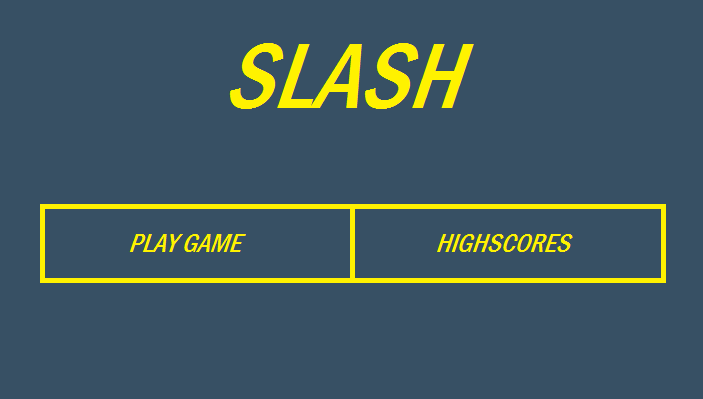
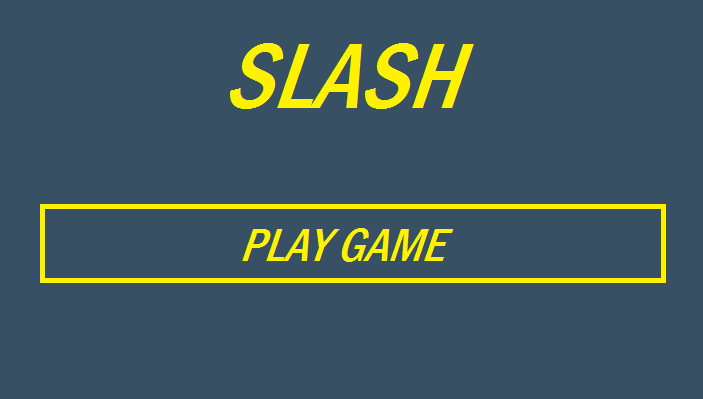
menu with highscores done
nao sei aumentar o tamanhao das letras se souberes aumenta um bocadinho

Changed region(s): [[0.1792, 0.5113, 0.8364, 0.6917]]

diff --git a/core/src/com/lpoo/gameworld/GameWorld.java b/core/src/com/lpoo/gameworld/GameWorld.java
@@ -26,7 +26,7 @@ public class GameWorld {
     private ArrayList<Ball> balls;
     private boolean slasherIsMoving=false;
 
-
+    public static int highscore = 0;
     public static int score;
 
 
@@ -118,6 +118,8 @@ public class GameWorld {
 
             } else if(message=="Game Over") {
                 slasherIsMoving=false;
+                if (score > highscore)
+                    highscore = score;
                 changeScreen(game, new GameOverScreen(game));
             }
         }
@@ -142,7 +144,13 @@ public class GameWorld {
         return score;
     }
 
+    public static int getHighscore() {
+        return highscore;
+    }
 
+    public static void setHighscore(int highscore) {
+        GameWorld.highscore = highscore;
+    }
 
     public void setScore(int score) {
         this.score = score;
@@ -165,7 +173,7 @@ public class GameWorld {
         Vector2 newPoint = new Vector2(slasher.getFinger());
         Vector2[] pointsTriangle = new Vector2[3];
         pointsTriangle[0] = slasher.getPosition();
-      //  pointsTriangle[1] = toDelete;
+        //  pointsTriangle[1] = toDelete;
 
         for( int j=0; j<4; j++)
         {
@@ -182,7 +190,7 @@ public class GameWorld {
 
         //new objects
         gameArea.dispose();
-       // checkBounds(points);
+        // checkBounds(points);
         slasher = new Slasher(newPoint, this);
 
         gameArea=new GameArea(points[0],points[1],points[2],points[3],world, this);
@@ -190,12 +198,12 @@ public class GameWorld {
         createBalls(counter+1);
         score += counter;
         //if(!resize())
-       // checkBounds(points);
-    //   if(pointsTriangle[0] == slasher.getPosition())
-      //  pointsTriangle[0] = slasher.getPosition();
+        // checkBounds(points);
+        //   if(pointsTriangle[0] == slasher.getPosition())
+        //  pointsTriangle[0] = slasher.getPosition();
         //pointsTriangle[1] = toDelete;
-       // pointsTriangle[2] = newPoint;
-       // System.out.println("GameWorld::PointsTriangle() = p1"+pointsTriangle[0]+"     p2 "+pointsTriangle[1]+" p3"+pointsTriangle[2]);
+        // pointsTriangle[2] = newPoint;
+        // System.out.println("GameWorld::PointsTriangle() = p1"+pointsTriangle[0]+"     p2 "+pointsTriangle[1]+" p3"+pointsTriangle[2]);
 
 
     }
@@ -207,14 +215,14 @@ public class GameWorld {
      * @return number of balls that are out of the gameArea.
      */
     public int checkBalls(Vector2[] pointsTriangle){
-       int counter=0;
+        int counter=0;
         for (int i = 0; i < balls.size();i++) {
             if (pointInPolygon( pointsTriangle, balls.get(i))){
                 Gdx.app.log("bola esta fora", "bola esta fora");
                 Ball ball = balls.get(i);
                 balls.remove(i);
                 ball.dispose();
-               counter++;
+                counter++;
                 //createBalls(1);
                 System.out.println("GameWorld::createBalls() ");
             }
@@ -239,7 +247,7 @@ public class GameWorld {
                 b = false;
         }
         return b;
-}
+    }
 
     public static boolean isBetween ( Vector2 center, Vector2 p, Vector2 ballPoint){
 
@@ -248,9 +256,9 @@ public class GameWorld {
         System.out.println("GameWorld::isBetween() center:"+ center + " p" + p + "ball" + ballPoint);
         if(p == null)
             return false;
-      //  if ((p.x >= center.x && p.x <= ballPoint.x) || (p.x <= center.x && p.x >= ballPoint.x))
+        //  if ((p.x >= center.x && p.x <= ballPoint.x) || (p.x <= center.x && p.x >= ballPoint.x))
         //    if ((p.y >= center.y && p.y <= ballPoint.y) ||(p.y <= center.y && p.y >= ballPoint.y))
-          //      return true;
+        //      return true;
         if ((p.x > center.x )&& (p.x < ballPoint.x)){
             if ((p.y > center.y) && (p.y < ballPoint.y))
                 return true;
@@ -284,54 +292,54 @@ public class GameWorld {
      */
     public void checkBounds(Vector2[] points){
 
-            for(int i = 0 ; i <points.length;i++){
+        for(int i = 0 ; i <points.length;i++){
 
-                //checks 'x' border of screen
-                if(points[i].x <10)
-                    points[i].x = 10;
-                else if(points[i].x >240)
-                    points[i].x = 240;
+            //checks 'x' border of screen
+            if(points[i].x <10)
+                points[i].x = 10;
+            else if(points[i].x >240)
+                points[i].x = 240;
 
-                //checks 'y' border of screen
-                if(points[i].y <10)
-                    points[i].y = 10;
-                else if(points[i].y >190)
-                    points[i].y = 190;
+            //checks 'y' border of screen
+            if(points[i].y <10)
+                points[i].y = 10;
+            else if(points[i].y >190)
+                points[i].y = 190;
 
-                //checks quadrants
-                switch(i)
-                {
-                    case 0: //1st quadrant - up left
-                        if(points[i].x>GameArea.center.x)
-                            points[i].x=GameArea.center.x;
-                        if(points[i].y>GameArea.center.y)
-                            points[i].y=GameArea.center.y;
-                        break;
+            //checks quadrants
+            switch(i)
+            {
+                case 0: //1st quadrant - up left
+                    if(points[i].x>GameArea.center.x)
+                        points[i].x=GameArea.center.x;
+                    if(points[i].y>GameArea.center.y)
+                        points[i].y=GameArea.center.y;
+                    break;
 
-                    case 1: //2nd quadrant - down left
-                        if(points[i].x>GameArea.center.x)
-                            points[i].x=GameArea.center.x;
-                        if(points[i].y<GameArea.center.y)
-                            points[i].y=GameArea.center.y;
-                        break;
+                case 1: //2nd quadrant - down left
+                    if(points[i].x>GameArea.center.x)
+                        points[i].x=GameArea.center.x;
+                    if(points[i].y<GameArea.center.y)
+                        points[i].y=GameArea.center.y;
+                    break;
 
-                    case 2: //3rd quadrant - down right
-                        if(points[i].x<GameArea.center.x)
-                            points[i].x=GameArea.center.x;
-                        if(points[i].y<GameArea.center.y)
-                            points[i].y=GameArea.center.y;
-                        break;
+                case 2: //3rd quadrant - down right
+                    if(points[i].x<GameArea.center.x)
+                        points[i].x=GameArea.center.x;
+                    if(points[i].y<GameArea.center.y)
+                        points[i].y=GameArea.center.y;
+                    break;
 
-                    case 3: //4th quadrant - up right
-                        if(points[i].x<GameArea.center.x)
-                            points[i].x=GameArea.center.x;
-                        if(points[i].y>GameArea.center.y)
-                            points[i].y=GameArea.center.y;
-                        break;
-                }
-
-
+                case 3: //4th quadrant - up right
+                    if(points[i].x<GameArea.center.x)
+                        points[i].x=GameArea.center.x;
+                    if(points[i].y>GameArea.center.y)
+                        points[i].y=GameArea.center.y;
+                    break;
             }
+
+
+        }
         for (int i = 0;i<points.length;i++){
             if(points[i%4].x == points[(i+1)%4].x){
                 points[i].x++;

diff --git a/core/src/com/lpoo/slash/MenuScreen.java b/core/src/com/lpoo/slash/MenuScreen.java
@@ -4,6 +4,7 @@ import com.badlogic.gdx.Game;
 import com.badlogic.gdx.Gdx;
 import com.badlogic.gdx.InputProcessor;
 import com.badlogic.gdx.Screen;
+import com.badlogic.gdx.graphics.Color;
 import com.badlogic.gdx.graphics.GL20;
 import com.badlogic.gdx.graphics.OrthographicCamera;
 import com.badlogic.gdx.graphics.Texture;
@@ -12,6 +13,8 @@ import com.badlogic.gdx.graphics.g2d.Sprite;
 import com.badlogic.gdx.graphics.g2d.SpriteBatch;
 import com.badlogic.gdx.math.Vector2;
 import com.lpoo.slashhelpers.Utilities;
+
+import static com.lpoo.gameworld.GameWorld.getHighscore;
 
 /**
  * Created by Diogo Duque on 03/06/2016.
@@ -56,13 +59,10 @@ public class MenuScreen implements Screen {
             @Override
             public boolean touchUp(int screenX, int screenY, int pointer, int button) {
                 Vector2 finger = convertDimensions(new Vector2(screenX,screenY));
-                if(finger.y>123 && finger.y<168)
-                {
+                if(finger.y>123 && finger.y<168) {
                     System.out.println("AA");
-                    if(finger.x> 25 && finger.x<211)
+                    if (finger.x > 25 && finger.x < 398)
                         Utilities.changeScreen(game, new GameScreen(game));
-                    else if( finger.x> 211 && finger.x<398)
-                        Utilities.changeScreen(game, new GameOverScreen(game));
                 }
                 Gdx.app.log("MenuScreen::inputs","x="+finger.x+", y="+finger.y);
                 return true;
@@ -117,12 +117,13 @@ public class MenuScreen implements Screen {
 
         batch.setProjectionMatrix(cam.combined); //or your matrix to draw GAME WORLD, not UI
         batch.begin();
+        font.setColor(Color.YELLOW);
 
         batch.draw(background, 0, 0, width, height);
-      //  font.draw(batch, "Score: 35 <- temporary and static value", 40, 125);
-
+        String highScore = " HIGHSCORE : "+ getHighscore();
+        //  font.draw(batch, "Score: 35 <- temporary and static value", 40, 125);
+        font.draw(batch, highScore,175, 50);
         batch.end();
-
     }
 
     @Override

diff --git a/core/src/com/lpoo/slash/GameOverScreen.java b/core/src/com/lpoo/slash/GameOverScreen.java
@@ -4,6 +4,7 @@ import com.badlogic.gdx.Game;
 import com.badlogic.gdx.Gdx;
 import com.badlogic.gdx.InputProcessor;
 import com.badlogic.gdx.Screen;
+import com.badlogic.gdx.graphics.Color;
 import com.badlogic.gdx.graphics.GL20;
 import com.badlogic.gdx.graphics.OrthographicCamera;
 import com.badlogic.gdx.graphics.Texture;
@@ -13,6 +14,7 @@ import com.badlogic.gdx.graphics.g2d.SpriteBatch;
 import com.badlogic.gdx.math.Vector2;
 import com.lpoo.slashhelpers.Utilities;
 
+import static com.lpoo.gameworld.GameWorld.getHighscore;
 import static com.lpoo.gameworld.GameWorld.getScore;
 
 /**
@@ -119,8 +121,13 @@ public class GameOverScreen implements Screen {
         batch.begin();
 
         batch.draw(background, 0, 0, width, height);
+        font.setColor(Color.YELLOW);
+        String highScore = "NEW HIGHSCORE !! "+ getHighscore();
         String scoreText = "SCORE :"+getScore();
-        font.draw(batch, scoreText, 40, 125);
+
+        if(getScore() == getHighscore())
+            font.draw(batch, highScore, 150, 150);
+        else font.draw(batch, scoreText, 150, 150);
 
         batch.end();
 
